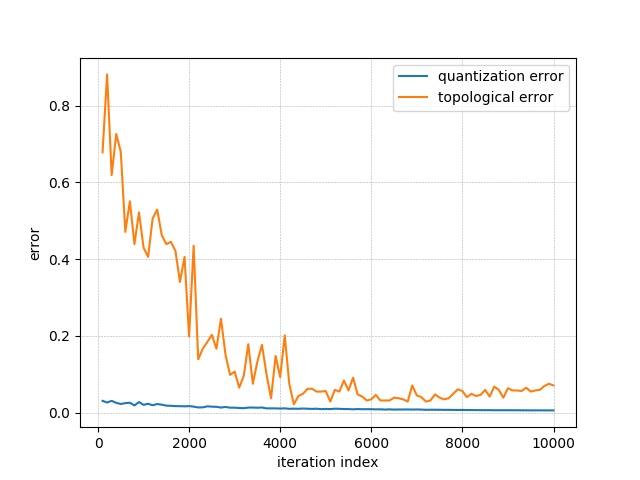
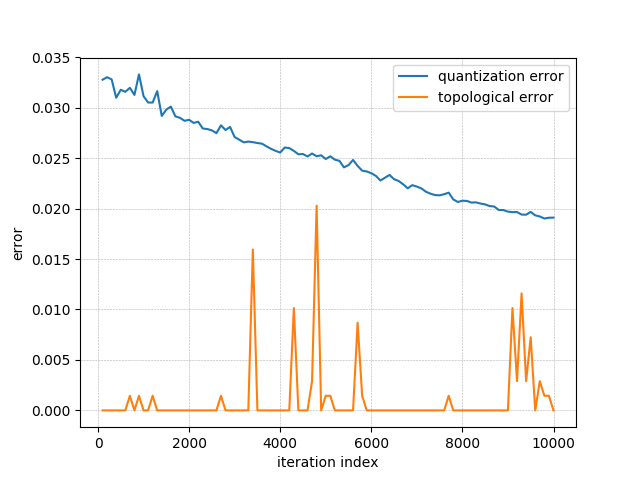
train and test classification

diff --git a/outliers.py b/outliers.py
@@ -2,60 +2,82 @@ import pandas as pd
 import numpy as np
 
 import matplotlib.pyplot as plt
-from sklearn import datasets
+
+from sklearn.model_selection import train_test_split
+from sklearn.metrics import classification_report
+
 from minisom import MiniSom
 
-df = pd.read_csv('~/Downloads/aust.csv')
 
+# ====================================
+# INITIALIZATION
+# ====================================
+df = pd.read_csv('~/Downloads/aust.csv')
 labels = df['Y']
 X = df.drop(columns='Y')
 X = np.apply_along_axis(lambda x: x/np.linalg.norm(x), 1, X)
-
-som = MiniSom(7, 7, X.shape[1], sigma=3, learning_rate=0.5,
-              neighborhood_function='triangle',
+grid_dim = int(X.shape[1]*0.5)
+som = MiniSom(grid_dim, grid_dim, X.shape[1], sigma=grid_dim/2, learning_rate=0.1,
+              neighborhood_function='gaussian',
               random_seed=10)
 
+X_train, X_test, y_train, y_test = train_test_split(X, labels, random_state=123)
 
-som.pca_weights_init(X)
+
+# ======================
+# TRAIN
+# ======================
+som.pca_weights_init(X_train)
 print("Training...")
-som.train_batch(X, 1000, verbose=True)  # random training
-print("\n...ready!")
+som.train_batch(X_train, grid_dim**2*800, verbose=True)  # random training
+print("\n...done!")
 #som.train_random(X, 7*7*600, verbose=True)
 
 
 # use different colors and markers for each label
-plt.figure(figsize=(7,7))
+plt.figure(figsize=(grid_dim, grid_dim))
 plt.pcolor(som.distance_map().T, cmap='bone_r')  # plotting the distance map as background
-markers = ['o', 's']
+markers = ['*', 'D']
 colors = ['C0', 'C1']
-for cnt, xx in zip(X, labels):
-    w = som.winner(cnt)  # getting the winner
-    # palce a marker on the winning position for the sample xx
-    i = 0 if xx == 1 else 1
+for x, y in zip(X_train, y_train):
+    w = som.winner(x)  # getting the winner coordinates
+    # place a marker on the winning position for the sample xx
+    i = 0 if y == 1 else 1
     plt.plot(w[0]+.5, w[1]+.5, markers[i], markerfacecolor='None',
              markeredgecolor=colors[i], markersize=12, markeredgewidth=2)
-plt.axis([0, 7, 0, 7])
+plt.axis([0, grid_dim, 0, grid_dim])
 plt.colorbar()
-plt.savefig('som_labels.png')
+plt.savefig('som_labels_train.png')
 plt.show()
 plt.close()
 
-
-plt.figure(figsize=(7, 7))
+# train classification plot
+plt.figure(figsize=(grid_dim, grid_dim))
 plt.pcolor(som.distance_map().T, cmap='bone_r')  # plotting the distance map as background
-wmap = {}
+#wmap = {}
 sample = 0
-for x, y in zip(X, labels):
+wmap = som.labels_map(X, labels)
+default_class = np.sum(list(wmap.values())).most_common()[0][0]
+for x, y in zip(X_train, y_train):
     w = som.winner(x)
-    wmap[w] = sample
-    plt.text(w[0]+.5, w[1]+.5, str(y),
+    #wmap[w] = sample
+    if w in wmap:
+        label = wmap[w].most_common()[0][0]
+    else:
+        print('plot NON PRESENT')
+        label = default_class
+    plt.text(w[0]+.5, w[1]+.5, str(label),
     color = plt.cm.rainbow(y/2), fontdict={'weight': 'bold', 'size': 11})
     sample = sample + 1
 plt.axis([0, som.get_weights().shape[0], 0, som.get_weights().shape[1]])
+plt.colorbar()
 #plt.grid(linestyle='--', linewidth=.4, which="both")
-plt.savefig('som_labels_.png')
+plt.savefig('som_labels__train_hat.png')
 plt.show()
 plt.close()
+
+
+
 #  Quantization Error
 max_iter = 10**4
 q_error = []
@@ -83,3 +105,64 @@ plt.savefig('quant_top_error.png')
 plt.show()
 plt.close()
 
+# classification report
+def classify(som, data, class_assigments):
+    """Classifies each sample in data in one of the classes definited
+    using the method labels_map.
+    Returns a list of the same length of data where the i-th element
+    is the class assigned to data[i].
+    """
+    winmap = class_assignments
+    default_class = np.sum(list(winmap.values())).most_common()[0][0]
+    result = []
+    for d in data:
+        win_position = som.winner(d)
+        if win_position in winmap:
+            result.append(winmap[win_position].most_common()[0][0])
+        else:
+            print('NON PRESENT')
+            result.append(default_class)
+    return result
+
+
+# ======================
+# TEST
+# ======================
+
+class_assignments = som.labels_map(X_train, y_train)
+y_hat_train = classify(som, X_train, class_assignments)
+y_hat = classify(som, X_test, class_assignments)
+print("******** Test Classification Report ********")
+print(classification_report(y_test, y_hat))
+
+# use different colors and markers for each label TEST
+plt.figure(figsize=(grid_dim,grid_dim))
+plt.pcolor(som.distance_map().T, cmap='bone_r')  # plotting the distance map as background
+markers = ['o', 'D']
+colors = ['C0', 'C1']
+wmap = som.labels_map(X_test, y_test)
+for x in X_test:
+    w = som.winner(x)  # getting the winner coordinates
+    # place a marker on the winning position for the sample xx
+    label = wmap[w].most_common()[0][0]
+    i = 0 if label == -1 else 1
+    plt.plot(w[0]+.5, w[1]+.5, markers[i], markerfacecolor='None',
+             markeredgecolor=colors[i], markersize=12, markeredgewidth=2)
+plt.axis([0, grid_dim, 0, grid_dim])
+plt.colorbar()
+plt.savefig('som_labels_test_hat.png')
+plt.show()
+plt.close()
+
+y_test = y_test.to_list()
+y_train = y_train.to_list()
+
+tot_err_train = [0 if y_train[i] == y_hat_train[i] else 1 for i in range(len(y_hat_train))]
+tot_err_train = round(np.sum(tot_err_train)/len(y_hat_train), 2)
+
+tot_err_test = [0 if y_test[i] == y_hat[i] else 1 for i in range(len(y_hat))]
+tot_err_test = round(np.sum(tot_err_test)/len(y_hat), 2)
+
+print(f"Grid dimension (gaussian) = {(grid_dim, grid_dim)}")
+print(f"Classification Train Error: {round(tot_err_train*100, 2)} %")
+print(f"Classification Test Error: {round(tot_err_test*100, 2)} %")
